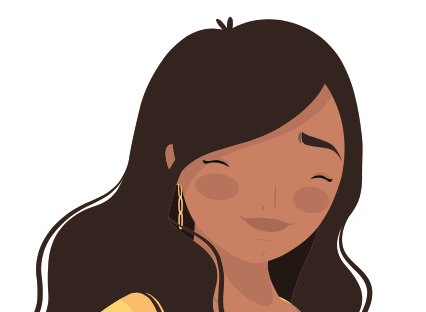
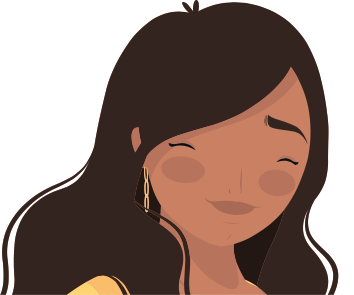
Adjusted the rotation of the bio illustration.

diff --git a/styles.css/styles.css b/styles.css/styles.css
@@ -211,8 +211,16 @@ mark {
 .avatar {
   display: block;
   margin: 0 auto;
-  height: 170px;
+  height: 180px;
+  transition: 3500ms;
+  padding-top: 17px;
+  border-radius: 50%;
 }
+
+.avatar:hover {
+  transform: rotate(360deg);
+}
+
 .my-bio {
   padding: 20px;
 }
